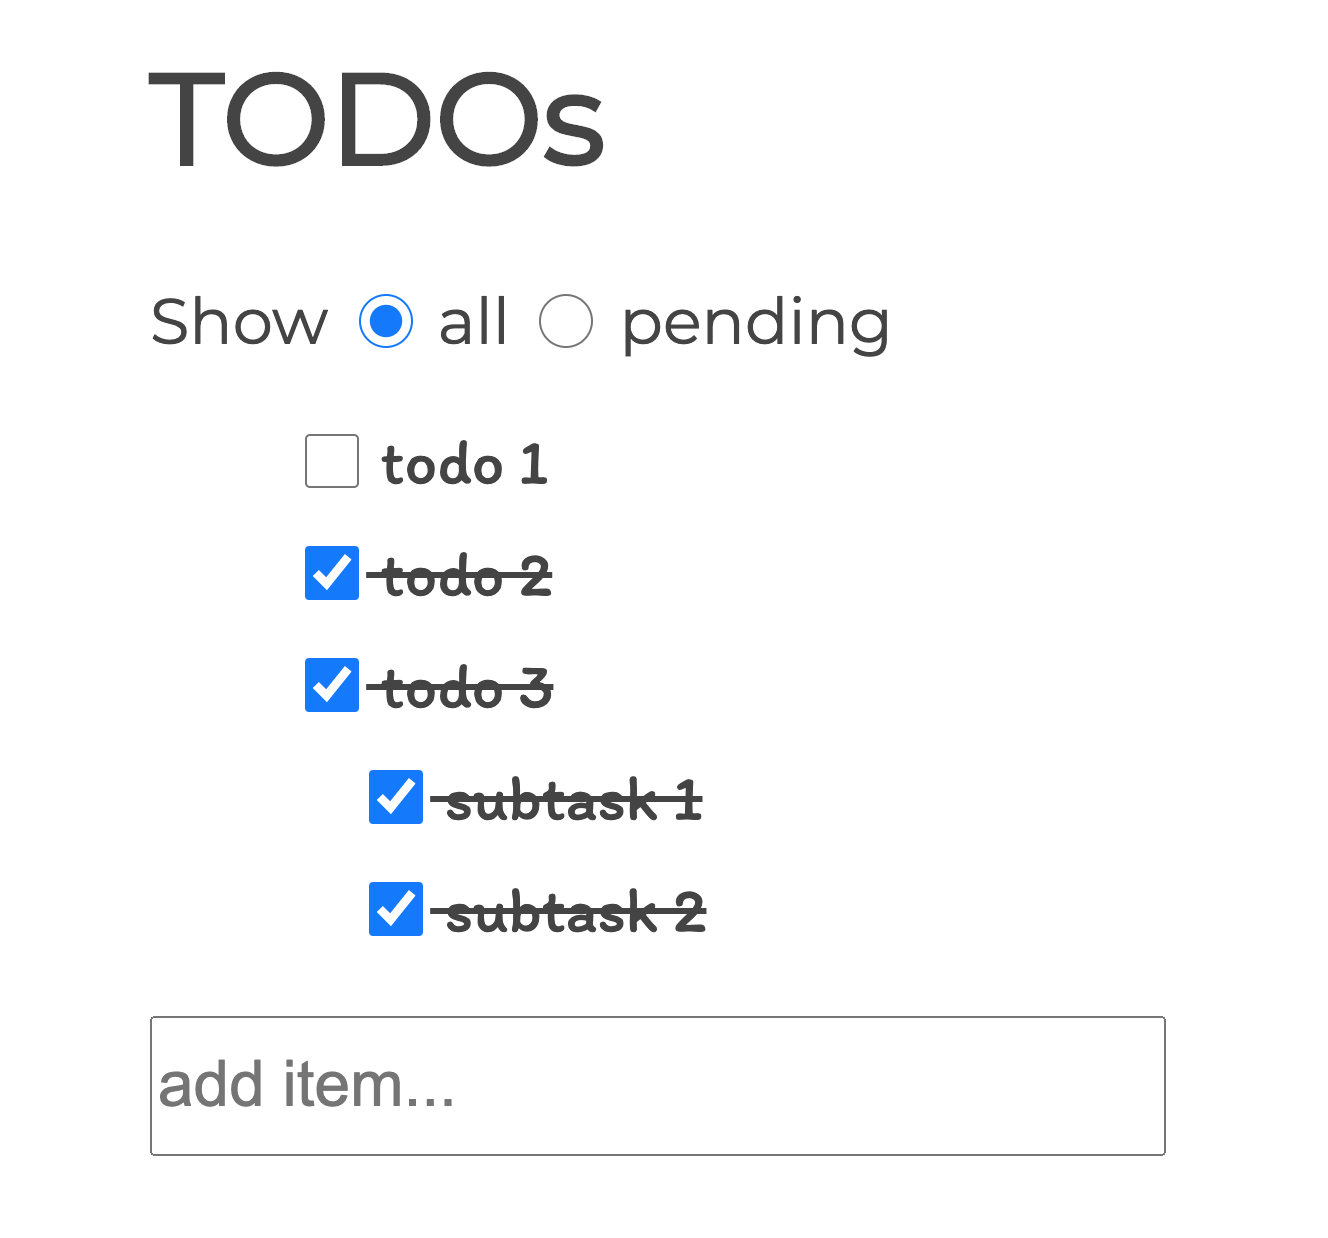
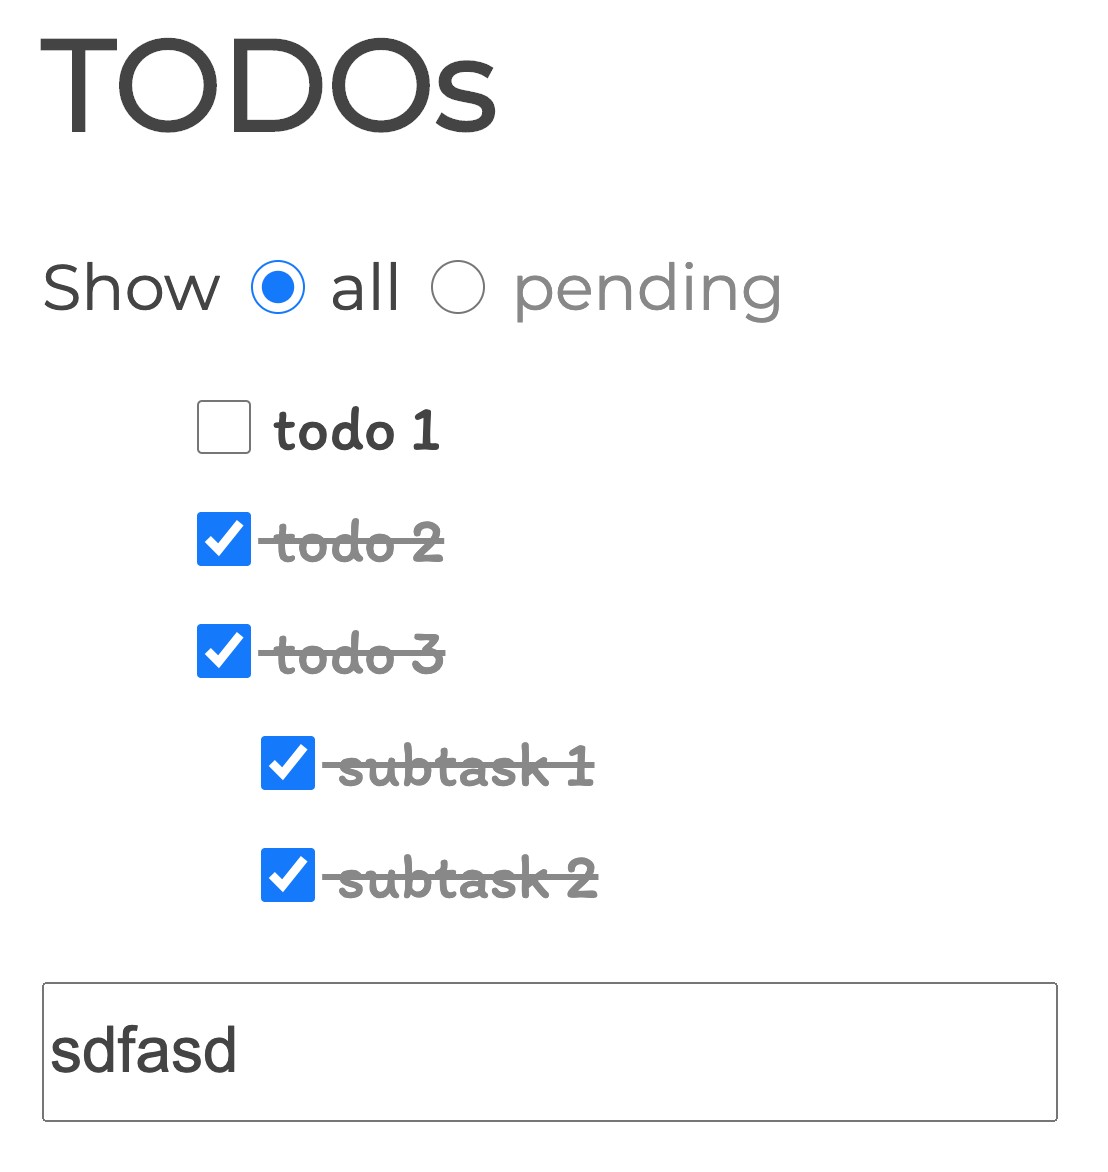
Update text colors

diff --git a/index.html b/index.html
@@ -18,11 +18,11 @@
 
         Show
 
-        <label>
+        <label class="filter selected">
             <input type="radio" name="filter" checked> all
         </label>
 
-        <label>
+        <label class="filter">
             <input type="radio" name="filter"> pending
         </label>
         
@@ -63,7 +63,7 @@
                 <button>x</button>
             </li>
         </ol>
-        <input type="text" placeholder="add item...">
+        <input type="text" placeholder="add item">
     </div>
 </body>
 </html>

diff --git a/css/app.css b/css/app.css
@@ -6,8 +6,17 @@
     width: 500px;
 }
 
+label.filter {
+    color: #888;
+}
+
+label.filter.selected {
+    color: #444;
+}
+
 input[type="checkbox"],
 input[type="radio"] {
+    color: #888;
     height: 2em;
     position: relative;
     top: 2px;
@@ -44,6 +53,7 @@ li:hover > span {
     visibility: visible;
 }
 li.done label {
+    color: #888;
     text-decoration: line-through;
 }
 li.subtask {
